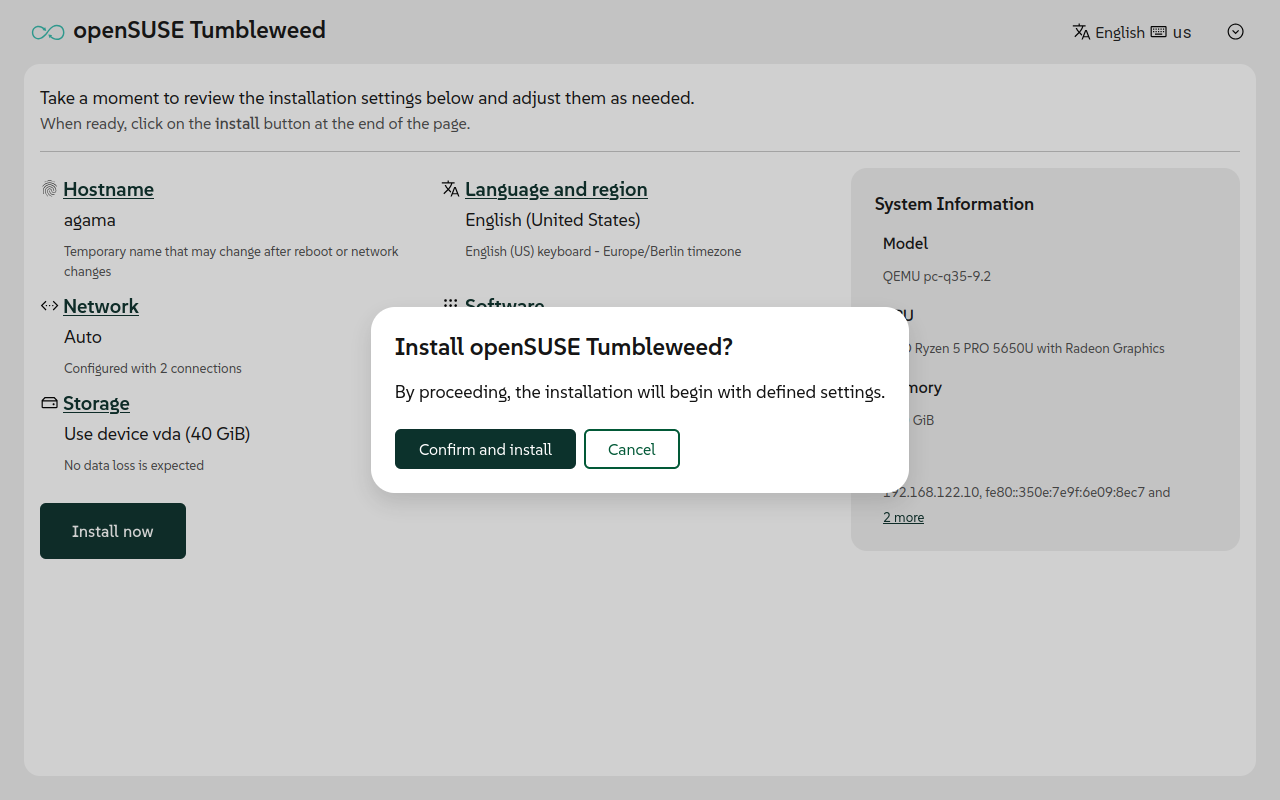
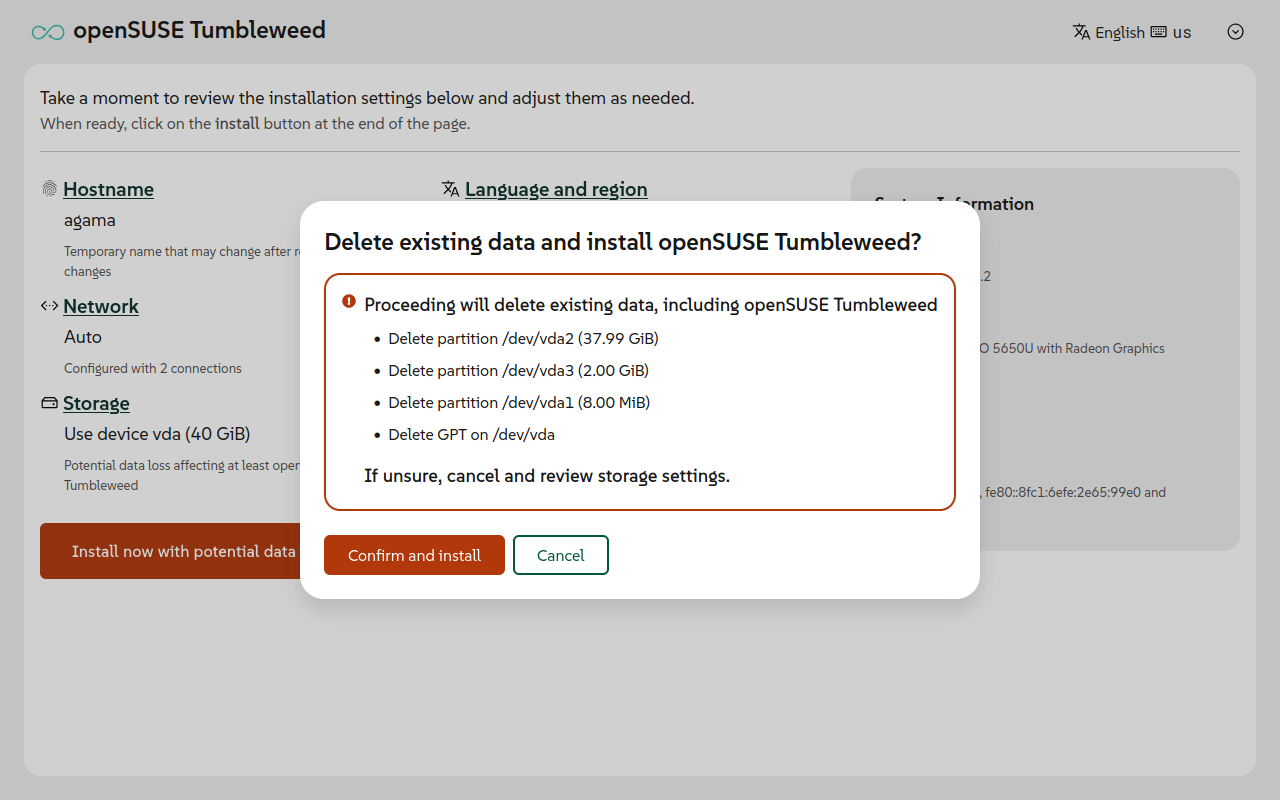
Documentation updates
diff --git c/docs/overview/cli.md i/docs/overview/cli.md
index 0ed970f..6259365 100644
--- c/docs/overview/cli.md
+++ i/docs/overview/cli.md
@@ -19,7 +19,8 @@ a Linux console session as the user `root`. The easiest way to do show is to swi
 text consoles, for example pressing `Ctrl`+`Alt`+`F1`. Then you can log in as `root` using any
 password you may have setup [during boot](../user/reference/boot_options) or just typing the
 password you can find right above the login prompt. Notice that this password is freshly generated;
-it's different each time the live system is booted.
+it's different each time the live system boots. Alternatively, you can switch to `Ctrl` + `Alt` +
+`F8` where no authentication is required.

 Once you are logged as `root`, you have the `agama` command at your disposal.

@@ -34,7 +35,7 @@ agama config show | jq -C | less
 ```

 You can switch back and forth between the graphical console and several text consoles using key
-combinations like `Ctrl`+`Alt`+`F1` or `Ctrl`+`Alt`+`F2`... `Ctrl`+`Alt`+`F7`. The graphical
+combinations like `Ctrl`+`Alt`+`F1` or `Ctrl`+`Alt`+`F2`... `Ctrl`+`Alt`+`F8`. The graphical
 interface can usually be found at the second console or at the seventh, depending whether the live
 system is based on Wayland or X.Org. You can learn more about text consoles in the
 [corresponding section](../user/guides/collecting_logs.md#shell) of the document about collecting
diff --git c/docs/overview/remote.md i/docs/overview/remote.md
[…]

Changed region(s): [[0.0312, 0.25, 0.9062, 0.75]]

diff --git a/docs/overview/webui.md b/docs/overview/webui.md
@@ -11,20 +11,22 @@ the installation workflow.
 
 Agama allows installing several SUSE and openSUSE-based distributions. The
 [openSUSE-based image](/download) image includes [Tumbleweed](https://www.opensuse.org/#Tumbleweed),
-[Leap 16.0 Beta](https://get.opensuse.org/leap/16.0/),
-[Leap Micro 6.2 Beta](https://en.opensuse.org/Portal:Leap_Micro),
-[Slowroll](https://en.opensuse.org/Portal:Slowroll), [Kalpa](https://kalpadesktop.org/) and
-[openSUSE Micro OS](https://get.opensuse.org/microos/).
+[Slowroll](https://en.opensuse.org/Portal:Slowroll) and
+[openSUSE Micro OS](https://get.opensuse.org/microos/). Additionally, Agama is the installer for
+[openSUSE Leap](https://get.opensuse.org/leap) too.
 
 It is noteworthy to mention that the product selection does not only determine which software we
 will install, but it may affect other aspects like the system's partitioning.
 
-![Product selection screen offering openSUSE Leap, MicroOS and
+![Product selection screen offering Slowroll, MicroOS and
 Tumbleweed](/img/user/product-selection.png)
 
-Some products may offer different installation modes (for instance, a "standard" or an "immutable"
-mode, the latter providing an **immutable OS** with **transactional updates**). If the selected
-product supports multiple modes, choosing one is mandatory to proceed with the installation.
+Some products may, like SUSE Linux Enterprise Server, offer different installation modes (for
+instance, a "standard" or an "immutable" mode, the latter providing an **immutable OS** with
+**transactional updates**). If the selected product supports multiple modes, choosing one is
+mandatory to proceed with the installation.
+
+![Product selection with modes](/img/user/product-selection-modes.png)
 
 You can change the product later if you change your mind, but you should carefully check the
 configuration as some values can be reset.
@@ -32,29 +34,20 @@ configuration as some values can be reset.
 ## General layout {#layout}
 
 Once you select a product, Agama takes you to the _overview page_. In the main area, you can find a
-summary of the installation settings including localization, storage and software.
+summary of the installation settings including localization, network, storage, software,
+authentication, etc. The installer let you know if there is an error or something is missing in any
+of those areas.
 
 ![Overview of the installation settings](/img/user/overview.png)
 
-No matter whether you are at that initial **Overview** page or any other section of the installer,
-the `Install` button is always present and allows to, unsurprisingly, start the installation. Check
-the [Starting the installation](#installing) section for further information.
+You can find the button to start the installation in the bottom of this _overview page_. Check the
+[Starting the installation](#installing) section for further information. In the image above, the
+`Install` button cannot actually start the process because Agama is asking to setup some
+authentication method first.
 
-In the image above, the `Install` button cannot actually start the process because Agama is asking
-to setup some authentication method first. In some cases, other issues may also be reported. Maybe
-related to network access, to the partitioning of the hard disks or to the registration of certain
-products. We will go back to that, but before doing so it is worth to pay attention to the rest of
-the page layout.
-
-The **sidebar** at the left contains a set of links to navigate to different installer areas (e.g.,
-**Localization**, **Network**, **Storage**, etc.). You can follow those links to revisit and/or
-change the installation settings for those areas. This **sidebar** can be shown or hidden by
-clicking the icon at the top (the one with the three bars). It is important to know that, depending
-on the form factor of your device, this _sidebar_ could be automatically hidden.
-
-Finally, at the top right corner and next to the already mentioned `Install` button, there is
-another button to change the localization settings for the installer and a menu offering some
-special options, like the possibility of changing the chosen product as discussed above.
+Finally, at the top right corner there is another button to change the localization settings for the
+installer and a menu offering some special options, like the possibility of changing the chosen
+product as discussed above, downloading the logs or the current configuration in JSON format.
 
 ![Menu with special settings like changing product](/img/user/installer-menu.png)
 
@@ -81,8 +74,8 @@ take a look to the different areas of the Agama interface before proceeding.
 
 Agama makes it easy to adjust your network configuration. It allows setting up wired and wireless
 devices, specifying the mode (DHCP/manual), IP addresses, name servers, etc. Advanced connections
-types, like bridges or bonds, does not have support in the user interface yet. However, it is a
-matter of time that they get added, given that Agama supports many of them during an
+types, like bridges or bonds, do not have support in the user interface yet. However, it is a matter
+of time that they get added given that Agama supports many of them during an
 [unattended installation](./unattended.md) or using the [command-line interface](./cli.md).
 
 :::warning
@@ -138,7 +131,7 @@ the value you want to select.
 ## Software {#software}
 
 Agama software selection is rather simple. Depending on the product, it offers a reduced set of
-software pattern. The image below partially shows how the software selector looks like. As in other
+software patterns. The image below partially shows how the software selector looks like. As in other
 places of the interfaces, Agama offers a search box. If you need any advanced package selection, we
 suggest to do it once the system is installed.
 
@@ -146,11 +139,15 @@ suggest to do it once the system is installed.
 
 ## Starting the installation {#installing}
 
-As mentioned above, the `Install` button can be pressed at any time. If there are no issues
-preventing the installation, Agama will ask for confirmation. Once you accept, the installation
-starts.
+As mentioned above, the `Install` button is always present, but with minor changes depending on the
+situation:
+
+- When it is not possible to start the installation, usually because there is some configuration
+  problem you need to solve first, the button is disabled.
+- When the installation might cause data loss, for instance removing existing file systems, the
+  button text is adapted accordingly (_Install now with potential data loss_).
+- In other case, the button label reads _Install now_.
+
+Once you press the button, Agama will ask for confirmation.
 
 ![Confirmation after pressing the `Install` button](/img/user/install-button.png)
-
-The interface will then show the progress, allowing to reboot into the new system at the end of the
-installation.

diff --git a/docs/overview/cli.md b/docs/overview/cli.md
@@ -19,7 +19,8 @@ a Linux console session as the user `root`. The easiest way to do show is to swi
 text consoles, for example pressing `Ctrl`+`Alt`+`F1`. Then you can log in as `root` using any
 password you may have setup [during boot](../user/reference/boot_options) or just typing the
 password you can find right above the login prompt. Notice that this password is freshly generated;
-it's different each time the live system is booted.
+it's different each time the live system boots. Alternatively, you can switch to `Ctrl` + `Alt` +
+`F8` where no authentication is required.
 
 Once you are logged as `root`, you have the `agama` command at your disposal.
 
@@ -34,7 +35,7 @@ agama config show | jq -C | less
 ```
 
 You can switch back and forth between the graphical console and several text consoles using key
-combinations like `Ctrl`+`Alt`+`F1` or `Ctrl`+`Alt`+`F2`... `Ctrl`+`Alt`+`F7`. The graphical
+combinations like `Ctrl`+`Alt`+`F1` or `Ctrl`+`Alt`+`F2`... `Ctrl`+`Alt`+`F8`. The graphical
 interface can usually be found at the second console or at the seventh, depending whether the live
 system is based on Wayland or X.Org. You can learn more about text consoles in the
 [corresponding section](../user/guides/collecting_logs.md#shell) of the document about collecting

diff --git a/docs/overview/remote.md b/docs/overview/remote.md
@@ -13,12 +13,12 @@ For the case you do not know the address, or just for convenience, the Live ISO 
 Zeroconf, Bonjour) for hostname resolution. Therefore, connecting to `https://agama.local` should do
 the trick.
 
-:::warning
+:::warning[Beware of the `.local` hostname]
 
-Beware of the `.local` hostname Do not use the `.local` hostnames in untrusted networks (like public
-WiFi networks, shared networks), it is a security risk. An attacker can easily send malicious
-responses for the `.local` hostname resolutions and point you to a wrong Agama instance which could
-for example steal your root password!
+Do not use the `.local` hostnames in untrusted networks (like public WiFi networks, shared
+networks), it is a security risk. An attacker can easily send malicious responses for the `.local`
+hostname resolutions and point you to a wrong Agama instance which could for example steal your root
+password!
 
 :::
 

diff --git a/docs/overview/unattended.md b/docs/overview/unattended.md
@@ -79,14 +79,3 @@ as part of the script:
 - `agama install`
 
 If `inst.auto` is also present, it is processed after `inst.script`.
-
-:::warning[Experimental feature]
-
-Long term backward compatibility is guaranteed for `inst.auto`, but `inst.script` is considered a
-last minute feature for SUSE Linux Enterprise 16.0 and openSUSE Leap 16.0. It may evolve in the
-following months, even in ways that may break recent `inst.script` programs.
-
-We plan to specify this feature better and stabilize it by SLE 16.1 and the corresponding Leap
-version.
-
-:::
